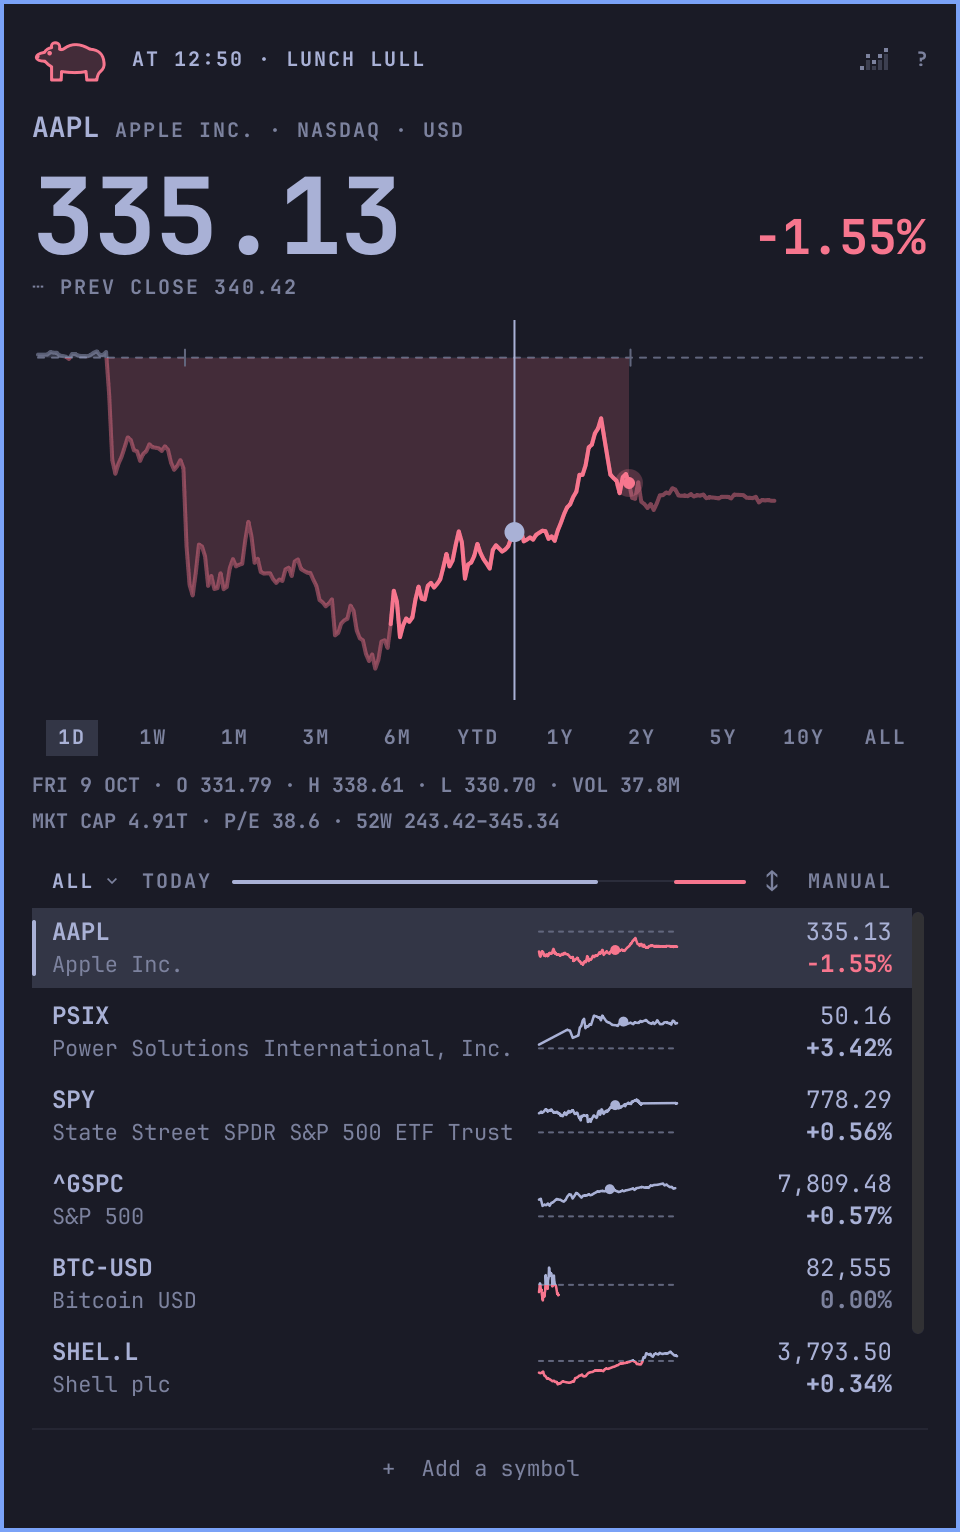
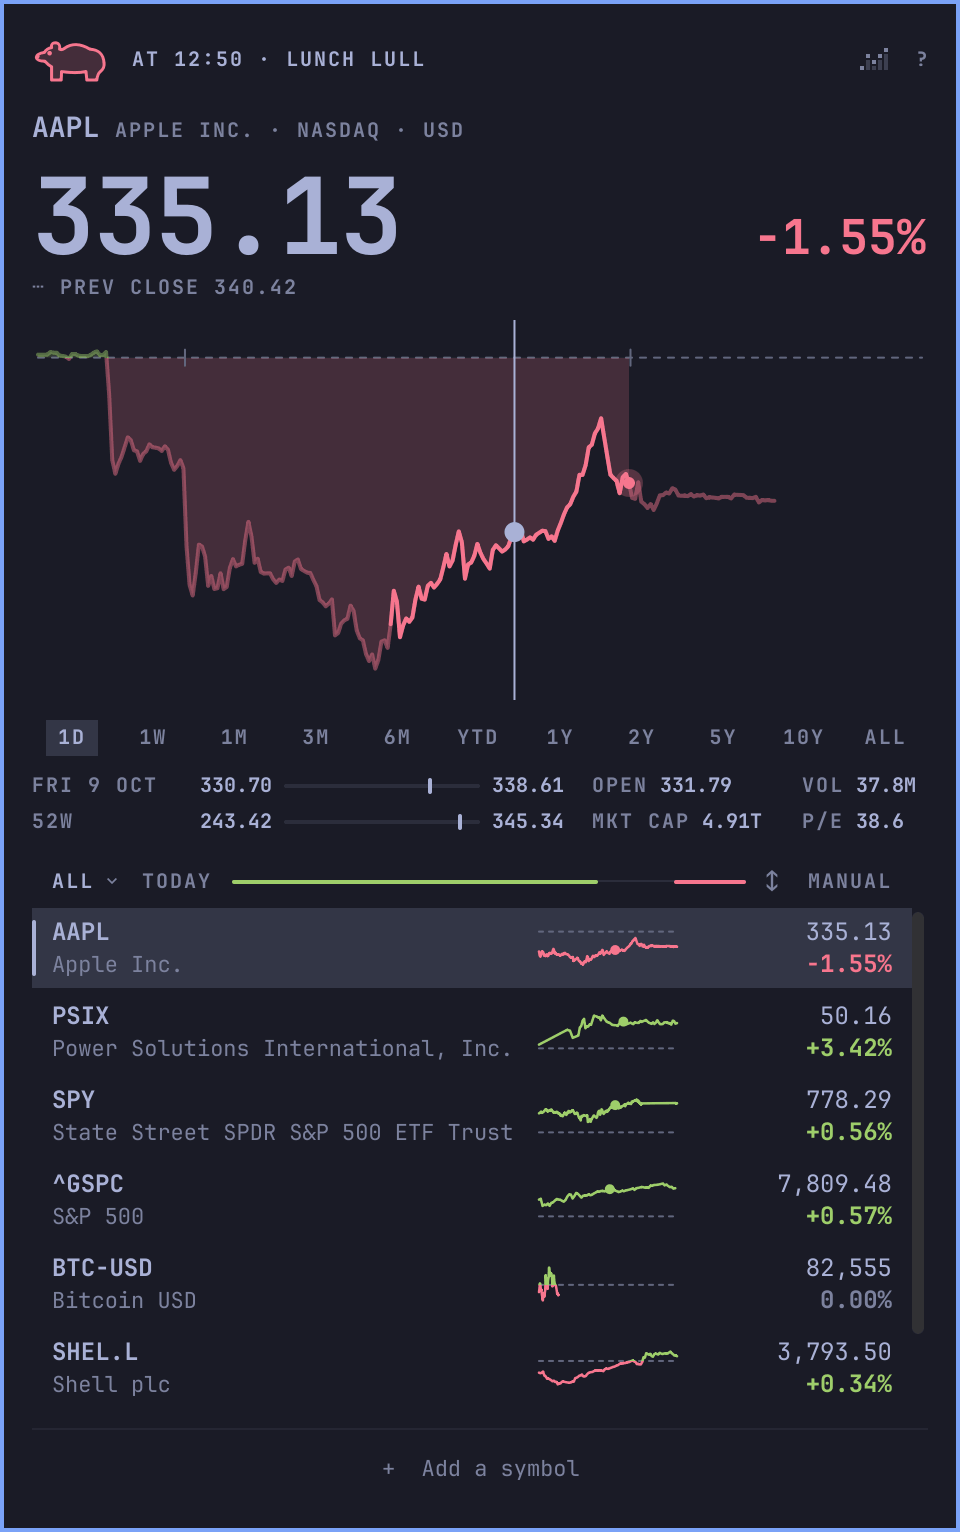
README pictures: the theme's green, waits on state, whole captures only
The renderer hands the surfaces and pills the real TrendColors, waits for
Robinhood's answers, the drawn-in chart, and the breadth rule at rest
rather than a fixed pause, opens retro fresh so its header and look button
have eased, and composes only this run's grabs. A capture is named only
once every answer is in.

diff --git a/test/qml/readme.qml b/test/qml/readme.qml
@@ -15,10 +15,21 @@ ShellRoot {
   property int failures: 0
   readonly property string rawDir: Quickshell.env("STONKS_README_RAW")
   readonly property var demo: ["AAPL", "PSIX", "SPY", "^GSPC", "BTC-USD", "SHEL.L", "7203.T"]
+  readonly property var us: ["AAPL", "PSIX", "SPY"]
 
   function check(label, ok, detail) {
     console.log((ok ? "PASS " : "FAIL ") + label + (!ok && detail !== undefined ? " — " + detail : ""))
     if (!ok) failures++
+  }
+
+  function find(item, name) {
+    if (!item) return null
+    if (item.objectName === name) return item
+    for (var i = 0; i < item.children.length; i++) {
+      var found = find(item.children[i], name)
+      if (found) return found
+    }
+    return null
   }
 
   function finish() {
@@ -29,9 +40,10 @@ ShellRoot {
 
   Stonks.Service { id: service }
   Stonks.Updates { id: updates }
+  Stonks.TrendColors { id: colors }
   QtObject {
     id: shellApi
-    function serviceFor(id) { return { service: service } }
+    function serviceFor(id) { return { service: service, trendColors: colors } }
   }
   PluginBarApi {
     id: api
@@ -42,7 +54,7 @@ ShellRoot {
     fontFamily: Style.font.family
   }
   Stonks.Panel { id: panel; bar: api; settings: ({}) }
-  Stonks.App { id: app; service: service; updates: updates }
+  Stonks.App { id: app; service: service; updates: updates; trendColors: colors }
 
   // The pill on strips of bar: one in the bar's centre, as wide as the
   // popup's card, for the top picture; and each of its four forms.
@@ -115,12 +127,35 @@ ShellRoot {
         return harness.demo.every(function(s) { return !!service.quotes[s] })
           && service.arriving.length === 0 && service.testFeed.firstRun.length + service.testFeed.refreshRun.length === 0
       }, 15000, "every demo listing answered")
+      harness.check("the theme's green is read", colors.green !== "", colors.green)
     }
 
-    // `item` as drawn now, into STONKS_README_RAW/<name>.png, once the chart
-    // has finished drawing in.
-    function grab(name, item) {
-      wait(900)
+    // Robinhood's word on the US listings, asked for once a surface opens:
+    // whether each trades all day, and the prints of those that do.
+    function robinhoodIn() {
+      return harness.us.every(function(s) {
+        var allDay = service.testAllDay.entries[s]
+        var night = service.testOvernight.entries[s]
+        return !!allDay && allDay.status === "ok" && (!allDay.allDay || (!!night && night.status === "ok"))
+      })
+    }
+
+    // `body` at rest: its chart landed and drawn in whole, and the rule
+    // beside the list's name on its shares, which ease when a scrub moves
+    // the rows and freeze where they are while a list view covers them.
+    function atRest(body) {
+      var rule = harness.find(body, "breadthRule")
+      var share = function(n) { return rule.total ? n / rule.total : 0 }
+      return !body.chartLoading && body.motion.reveal === 1
+        && Math.abs(rule.upShare - share(rule.breadth.up)) < 1e-6
+        && Math.abs(rule.downShare - share(rule.breadth.down)) < 1e-6
+    }
+
+    // `item` as drawn now, into STONKS_README_RAW/<name>.png, once `body` is
+    // at rest and `ready` holds.
+    function grab(name, item, body, ready) {
+      tryVerify(function() { return (!body || atRest(body)) && (!ready || ready()) }, 5000, name + " ready to grab")
+      waitForRendering(item)
       var saved = false
       item.grabToImage(function(result) { saved = result.saveToFile(harness.rawDir + "/" + name + ".png") })
       tryVerify(function() { return saved }, 3000, "grab " + name)
@@ -136,30 +171,34 @@ ShellRoot {
       panel.open()
       var body = panel.testBody
       tryVerify(function() { return body.surfaceOpen }, 3000)
-      grab("popup", panel.testCard.card)
+      grab("popup", panel.testCard.card, body, robinhoodIn)
       grab("strip", heroStrip)
       grab("forms", forms)
 
       // Scrubbed back into the afternoon, as a hover over the chart does.
       body.nudgeScrub(-84)
-      grab("scrub", panel.testCard.card)
+      grab("scrub", panel.testCard.card, body, function() { return body.motion.scrubT !== 0 })
       body.endScrub()
+      tryVerify(function() { return atRest(body) }, 3000, "the rows back on now")
 
       body.openListMenu()
-      tryVerify(function() { return body.listMenuOpen }, 3000)
-      grab("lists", panel.testCard.card)
+      grab("lists", panel.testCard.card, body, function() { return body.listMenuOpen })
       body.closeListMenu()
-
-      service.persist({ style: "retro" })
-      wait(100)
-      grab("retro", panel.testCard.card)
-      service.persist({ style: "smooth" })
       panel.close()
-      wait(300)
+      tryVerify(function() { return !body.surfaceOpen }, 3000)
+
+      // Retro from a fresh open, so the header's colour and the look
+      // button's cells, which ease on a switch, ease while it is closed,
+      // before the open's draw-in starts.
+      service.persist({ style: "retro" })
+      panel.open()
+      grab("retro", panel.testCard.card, body, function() { return service.retro && body.surfaceOpen })
+      panel.close()
+      service.persist({ style: "smooth" })
+      tryVerify(function() { return !body.surfaceOpen && !service.retro }, 3000)
 
       app.open("{}")
-      tryVerify(function() { return app.testBody.surfaceOpen }, 3000)
-      grab("window", app.testKeyCatcher)
+      grab("window", app.testKeyCatcher, app.testBody, function() { return app.testBody.surfaceOpen })
       app.close()
       harness.finish()
     }
